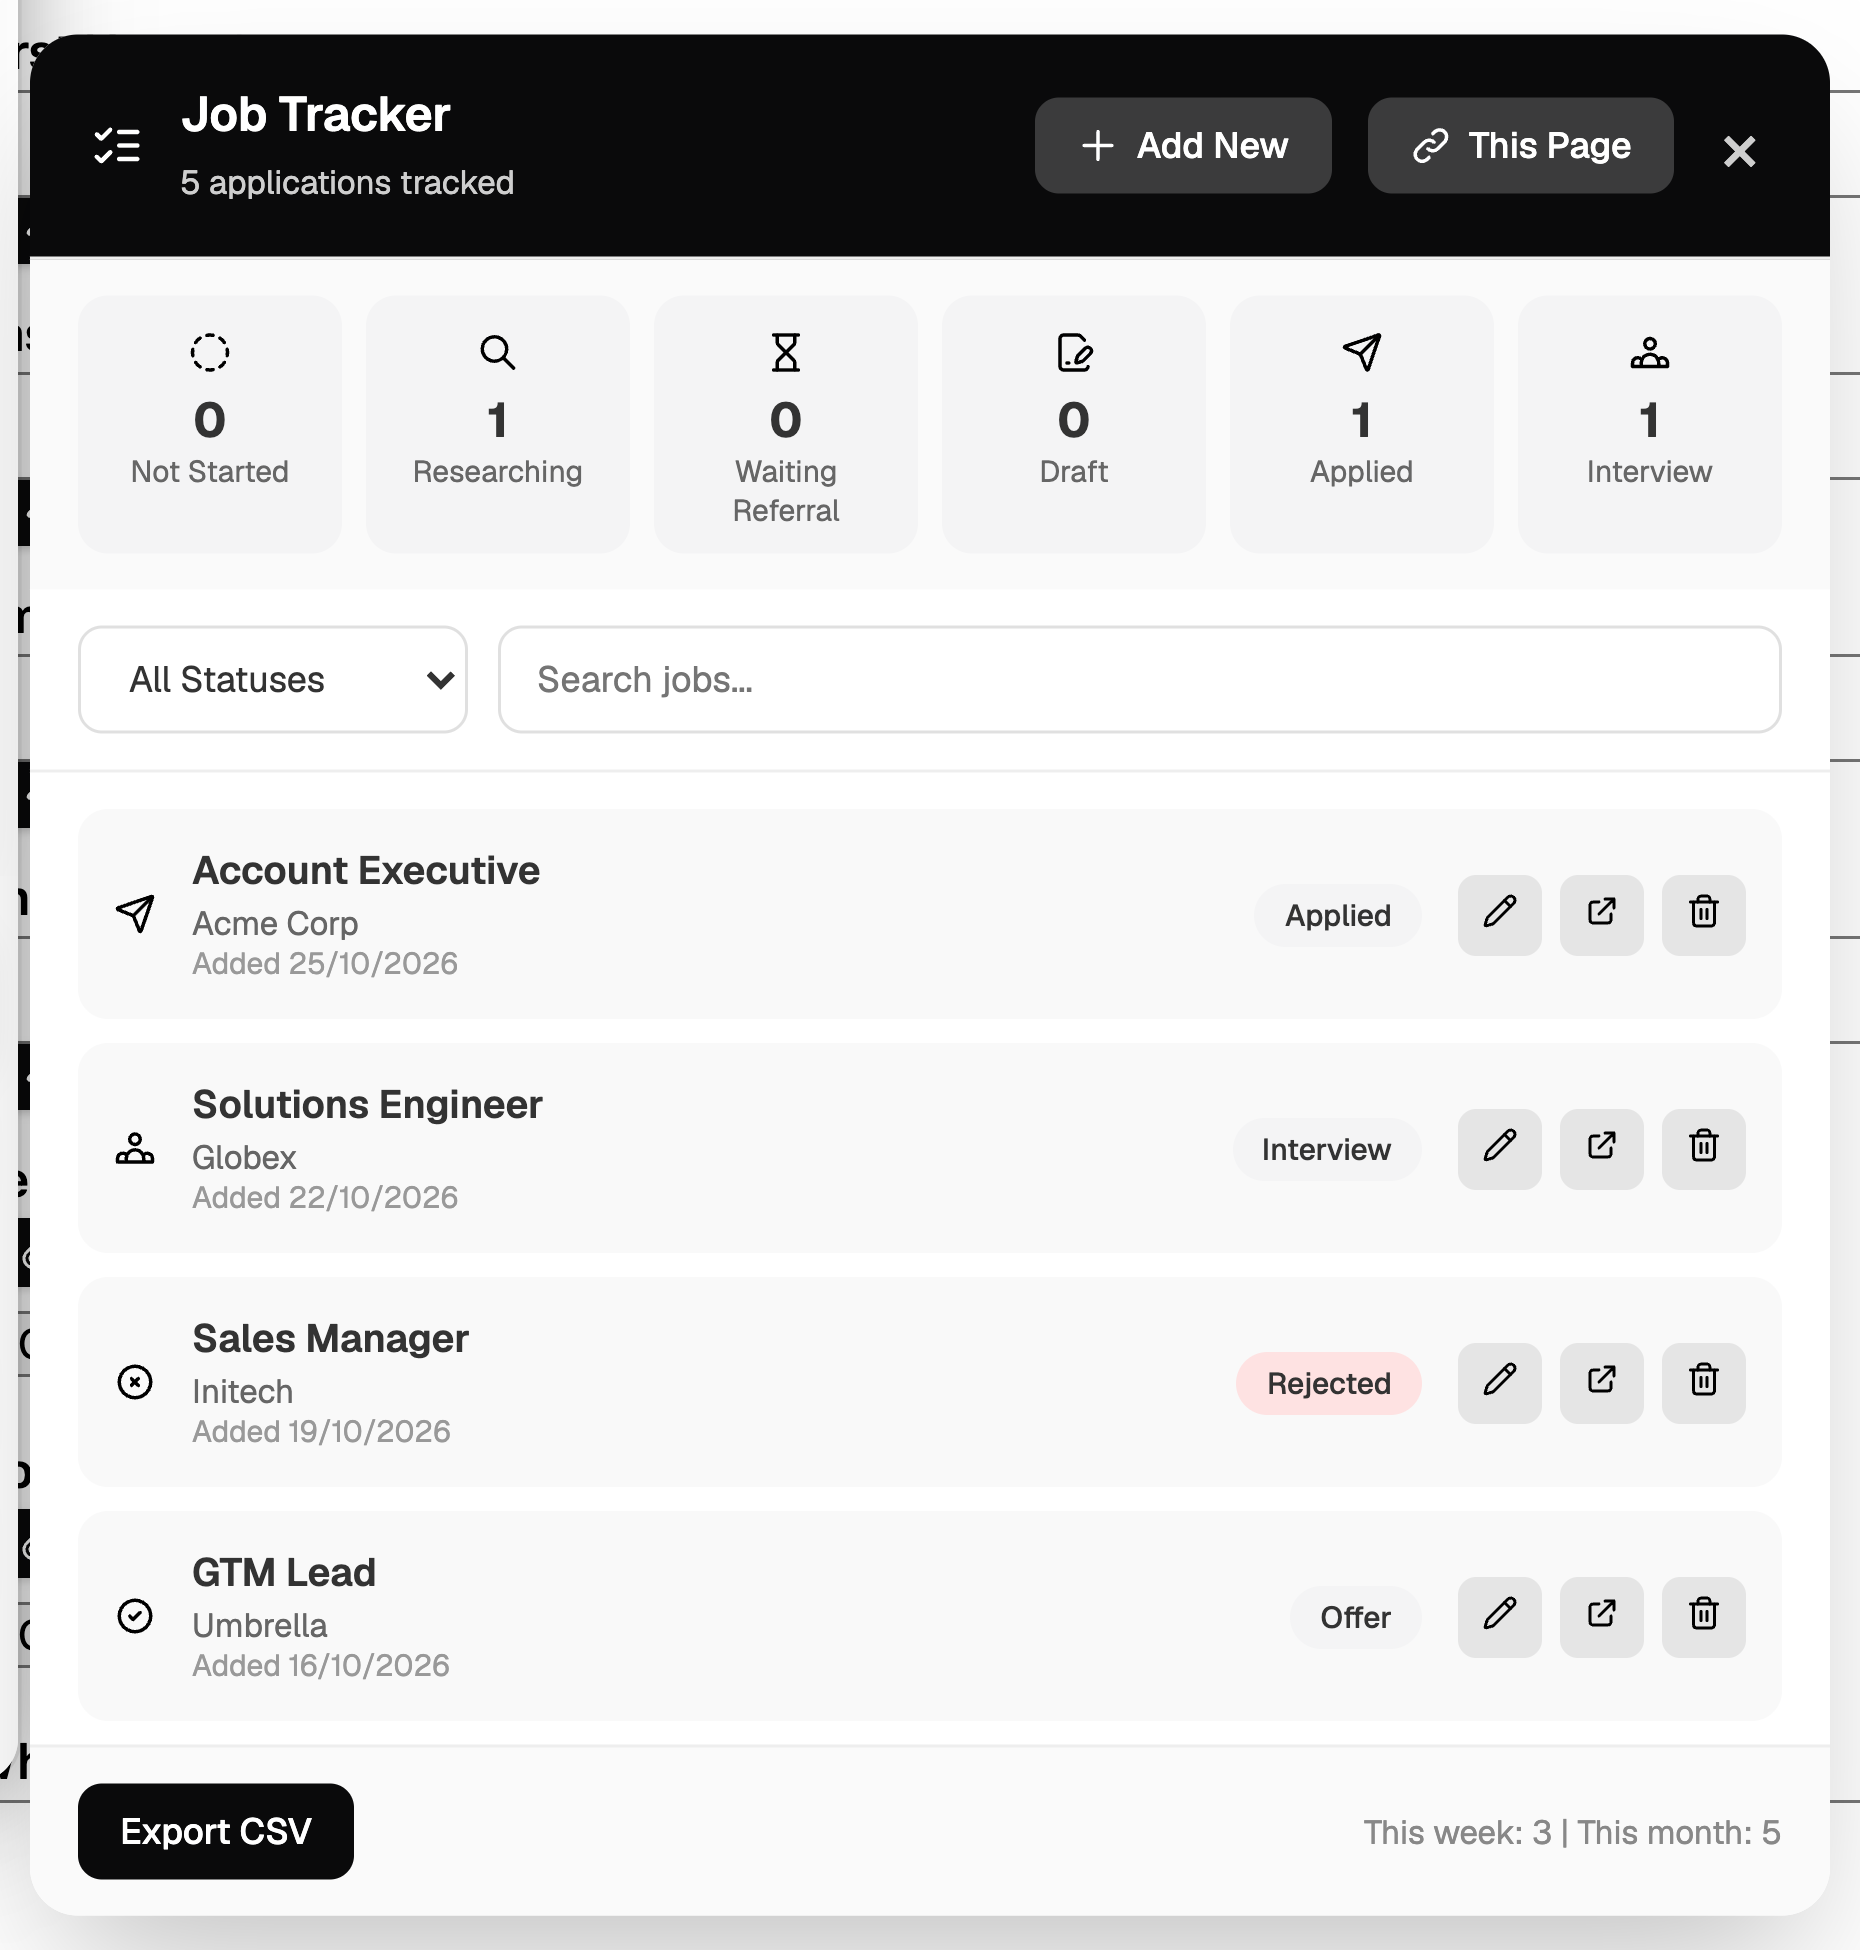
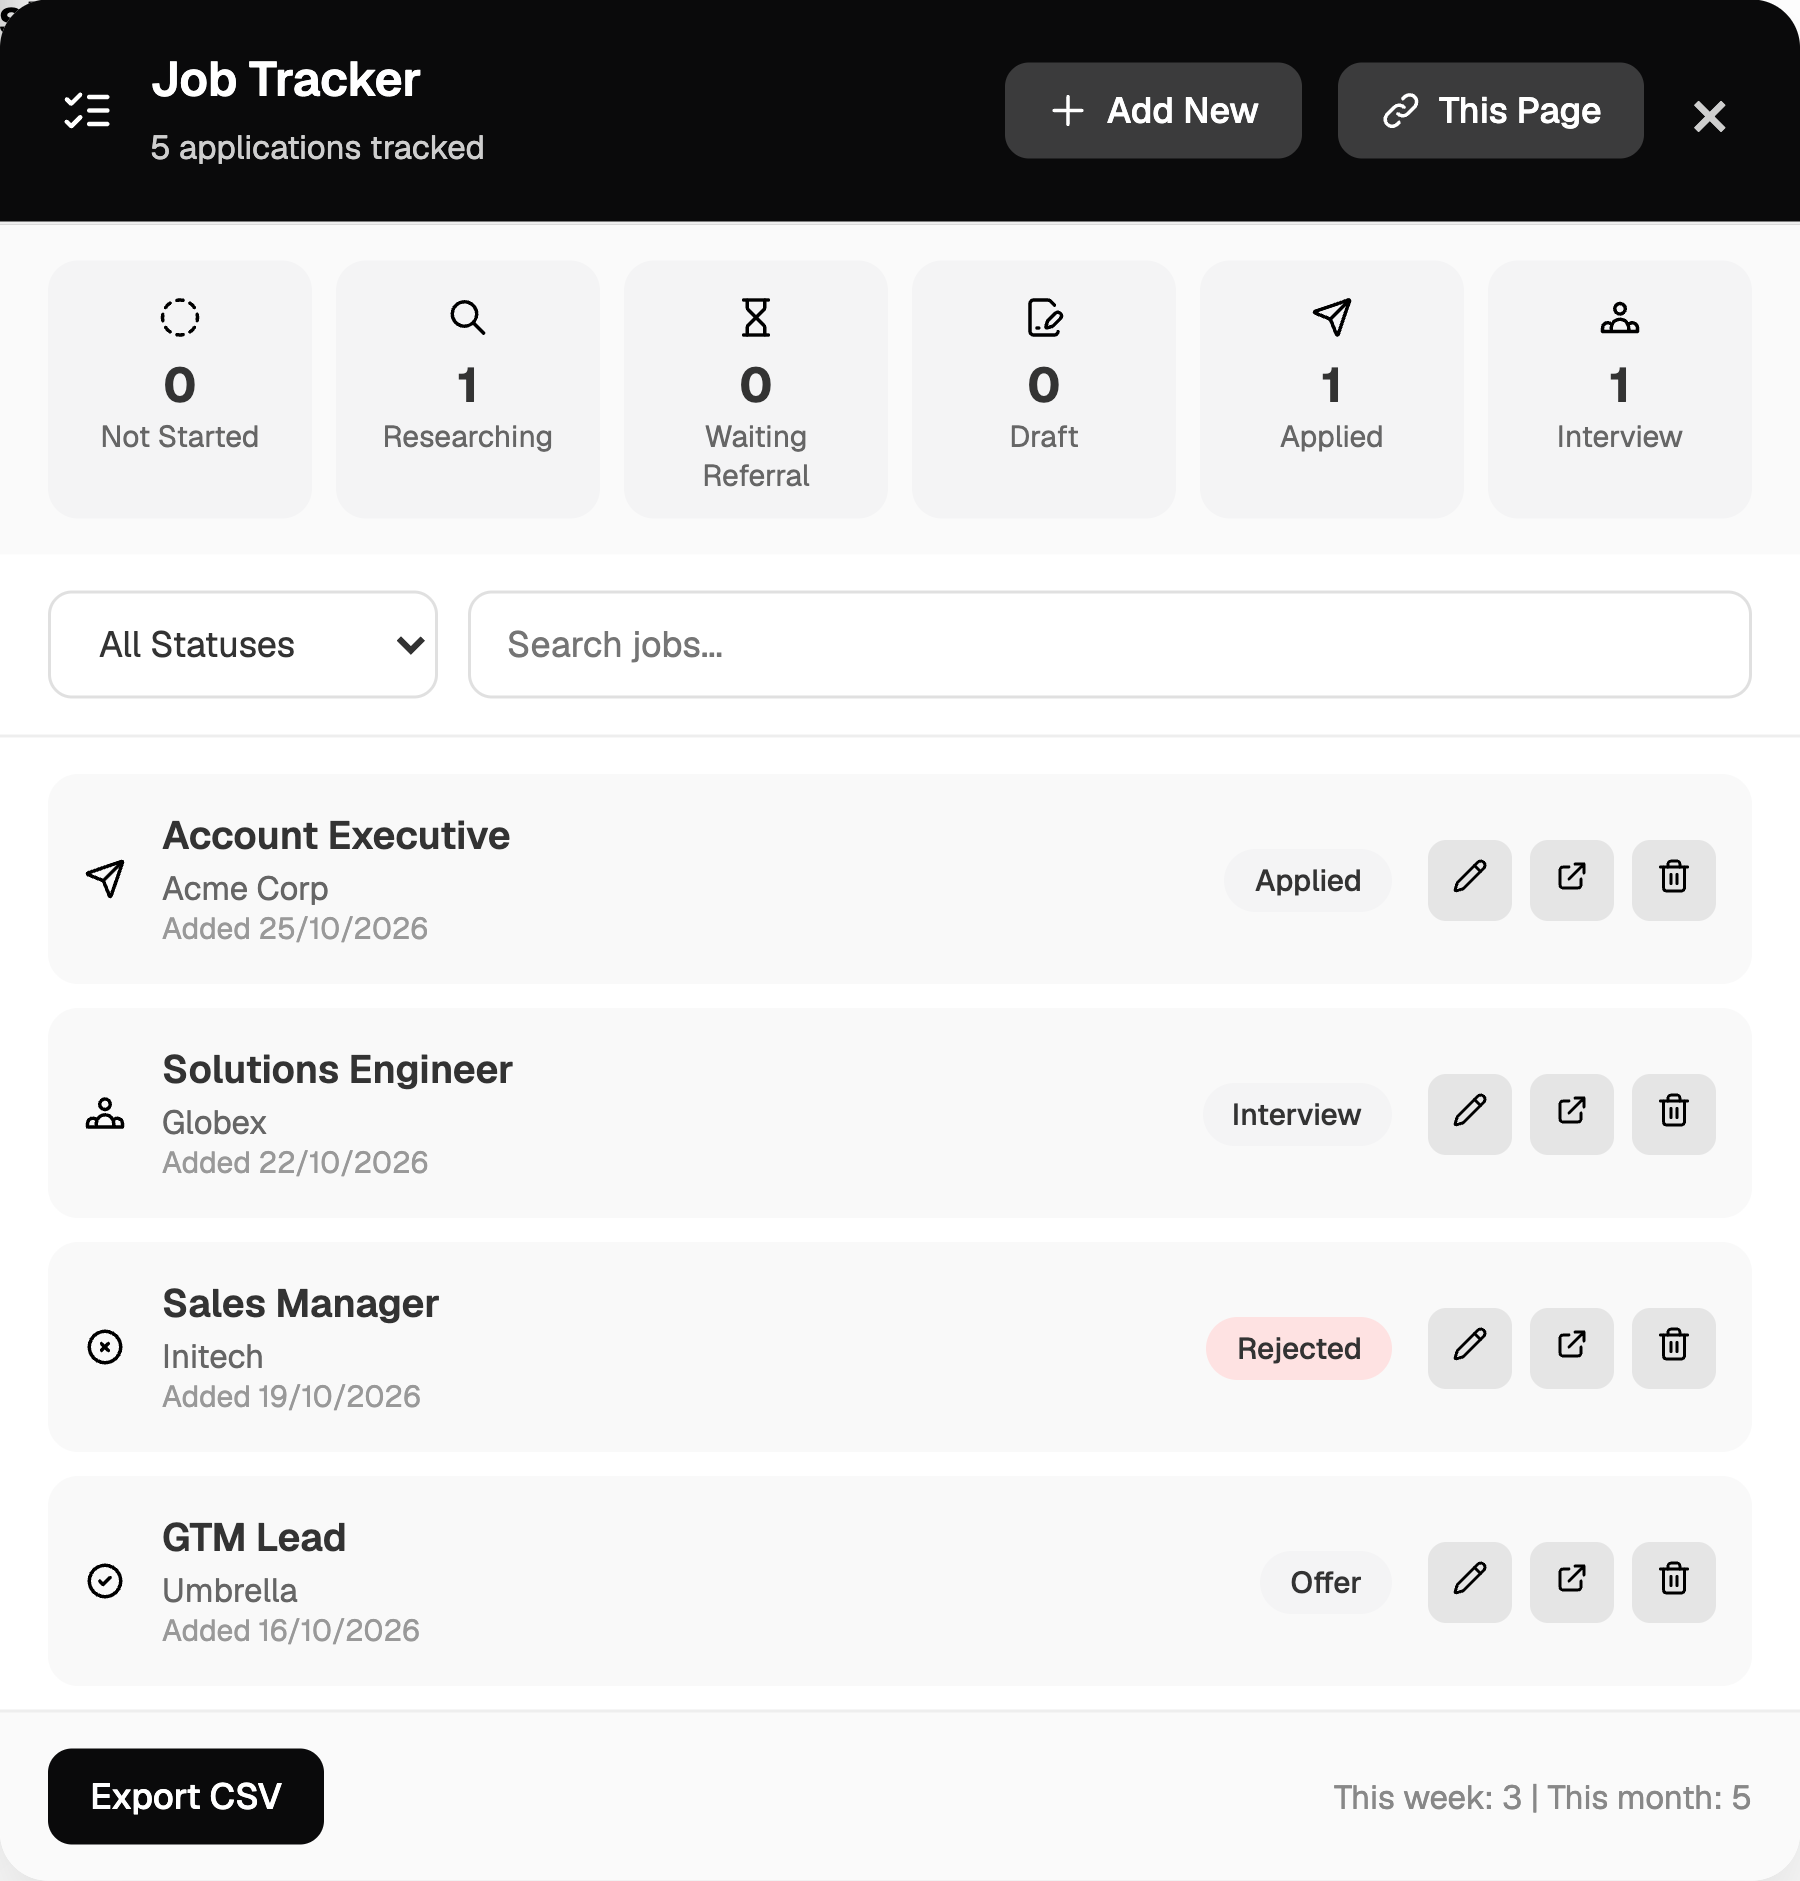
Glass frames on the product shots; hero shot tucks under the next section again
Section screenshots sit in frosted glass frames over a soft glow; the hero shot gets a smoked-glass rim and its bottom runs behind the white band below, as before. Tracker shot re-captured tight to its window.

diff --git a/site.css b/site.css
@@ -460,17 +460,28 @@ ul, ol { margin: 0; padding: 0; }
 @media (max-width: 860px) { .help-grid { grid-template-columns: minmax(0, 1fr); } }
 @media (max-width: 600px) { .help-grid { margin-top: -32px; } .support-faq { padding: 72px 0 88px; } }
 
-/* floating product shots: no borders, only a soft shadow */
-.hero-shot { height: auto; border-radius: 18px; margin-bottom: 72px; box-shadow: 0 28px 80px rgba(0, 0, 0, .55), 0 0 100px rgba(255, 255, 255, .08); }
-.hero-shot img { display: block; height: auto; }
-.stage { border: 0; background: transparent; overflow: visible; aspect-ratio: auto; padding: 12px 0 48px; }
-.stage img, .stage.rise img, .stage.top img { height: auto; max-height: none; margin: 0; border-radius: 16px;
-  box-shadow: 0 1px 2px rgba(10, 10, 11, .05), 0 14px 36px rgba(10, 10, 11, .10), 0 36px 90px rgba(10, 10, 11, .12); }
-.stage.rise img { width: min(360px, 78%); }
-.stage.top img { width: 100%; max-width: 100%; }
-@media (max-width: 960px) { .hero-shot { height: auto; margin-bottom: 48px; } }
-@media (max-width: 860px) { .stage { aspect-ratio: auto; } .stage.rise img { width: min(340px, 86%); } .stage.top img { width: 100%; } }
-@media (max-width: 600px) { .hero-shot { height: auto; } }
+/* glass frames around the product shots */
+.hero-shot { height: 640px; margin-bottom: 0; padding: 10px 10px 0; border-radius: 24px 24px 0 0;
+  background: linear-gradient(180deg, rgba(255, 255, 255, .16), rgba(255, 255, 255, .04));
+  border: 1px solid rgba(255, 255, 255, .24); border-bottom: 0;
+  -webkit-backdrop-filter: blur(20px) saturate(160%); backdrop-filter: blur(20px) saturate(160%);
+  box-shadow: inset 0 1px 0 rgba(255, 255, 255, .28), 0 -30px 90px -30px rgba(0, 0, 0, .9); }
+.hero-shot img { display: block; height: auto; border-radius: 15px 15px 0 0; }
+@media (max-width: 960px) { .hero-shot { height: 480px; } }
+@media (max-width: 600px) { .hero-shot { height: 420px; } }
+
+.stage { border: 0; background: transparent; overflow: visible; aspect-ratio: auto; padding: 24px 0 56px; isolation: isolate; }
+.stage::before { content: ""; position: absolute; inset: 12% 14%; z-index: -1; border-radius: 50%;
+  background: radial-gradient(closest-side, rgba(10, 10, 11, .16), rgba(10, 10, 11, 0)); filter: blur(28px); }
+.stage .glass { position: relative; display: inline-block; padding: 10px; border-radius: 26px;
+  background: linear-gradient(180deg, rgba(255, 255, 255, .78), rgba(255, 255, 255, .42));
+  border: 1px solid rgba(255, 255, 255, .95);
+  -webkit-backdrop-filter: blur(18px) saturate(160%); backdrop-filter: blur(18px) saturate(160%);
+  box-shadow: inset 0 1px 0 #FFFFFF, 0 0 0 1px rgba(10, 10, 11, .05), 0 18px 50px rgba(10, 10, 11, .12), 0 2px 6px rgba(10, 10, 11, .05); }
+.stage .glass img, .stage.rise .glass img, .stage.top .glass img { display: block; width: 100%; height: auto; max-width: none; max-height: none; margin: 0; border-radius: 16px; box-shadow: none; }
+.stage.rise .glass { width: min(380px, 80%); }
+.stage.top .glass { width: 100%; }
+@media (max-width: 860px) { .stage.rise .glass { width: min(340px, 88%); } }
 
 /* Pro is not available yet: shown, greyed out */
 .plan.pro.soon { background: var(--paper); border-color: var(--line); color: var(--grey); box-shadow: none; }

diff --git a/index.html b/index.html
@@ -134,13 +134,13 @@
                 </p>
               </div>
               <figure class="stage rise">
-                <img
+                <span class="glass"><img
                   src="img/shot-03-find.png"
                   width="400"
                   height="760"
                   loading="lazy"
                   alt="The Jobs4U tab listing roles curated for you, with Apply and Track buttons"
-                />
+                /></span>
               </figure>
             </article>
             <article class="flow-row">
@@ -154,13 +154,13 @@
                 </p>
               </div>
               <figure class="stage top">
-                <img
+                <span class="glass"><img
                   src="img/shot-01-fill.png"
                   width="700"
                   height="760"
                   loading="lazy"
                   alt="The JobPilot panel beside a job application form, with a Fill All button and Fill buttons on each field"
-                />
+                /></span>
               </figure>
             </article>
             <article class="flow-row">
@@ -174,13 +174,13 @@
                 </p>
               </div>
               <figure class="stage top">
-                <img
+                <span class="glass"><img
                   src="img/shot-04-tracker-on-page.png"
-                  width="620"
-                  height="650"
+                  width="600"
+                  height="627"
                   loading="lazy"
                   alt="The Job Tracker opened on a job posting, with counts per stage and a list of tracked applications"
-                />
+                /></span>
               </figure>
             </article>
           </div>
